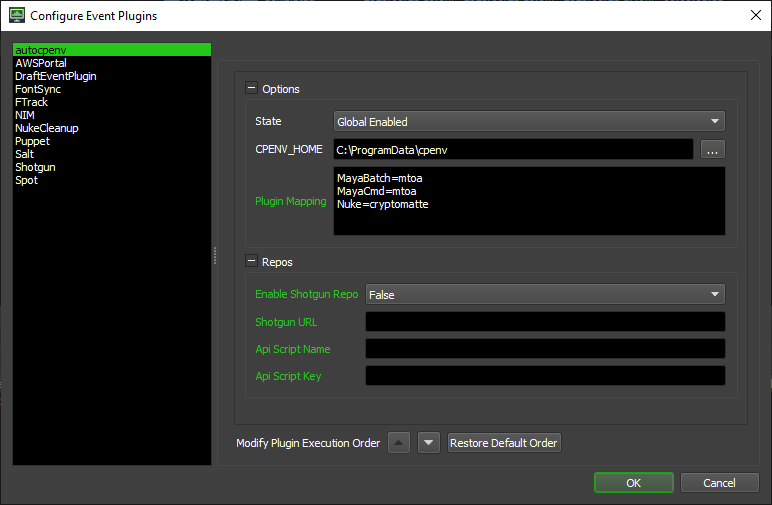
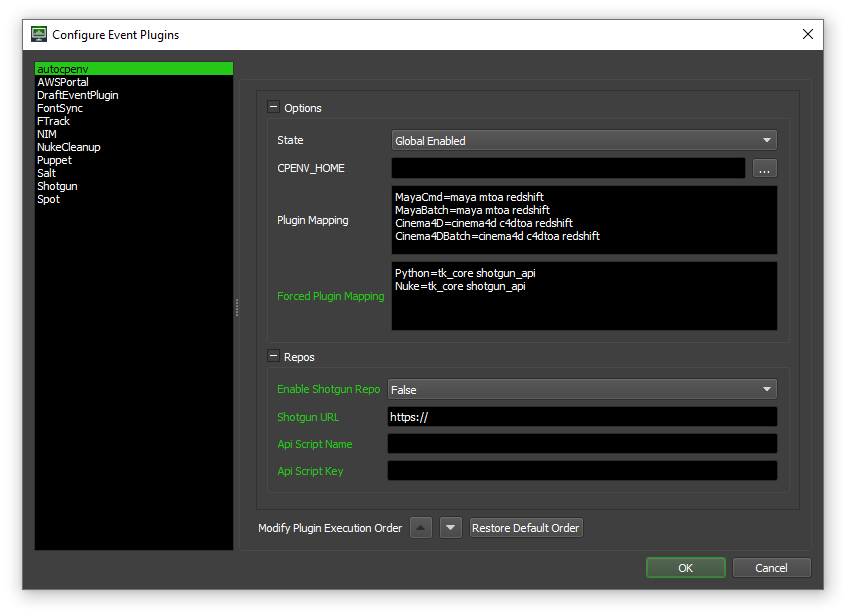
Update README.rst

diff --git a/README.rst b/README.rst
@@ -2,7 +2,7 @@
 autocpenv
 =========
 
-Deadline Event Plugin that automatically activates a cpenv environment when a worker starts rendering a task.
+Deadline Event Plugin that automatically activates cpenv requirements when a worker starts rendering a task. When submitting a job, this event plugin will check the user's CPENV_ACTIVATE_MODULES Environment variable for modules. If CPENV_ACTIVE_MODULES is undefined, the event will fallback to the requirements specified in the Plugin Mapping setting.
 
 
 Installation
@@ -32,9 +32,10 @@ Options
 -------
 - State: How this event plug-in should respond to events. If Global, all jobs and workers will trigger the events for this plugin. If Opt-In, jobs and workers can choose to trigger the events for this plugin. If Disabled, no events are triggered for this plugin.
 - CPENV_HOME: Path to cpenv home. Defaults to a local directory. Can be set to a shared network location. Place a config.yml file within the home directory to configure repositories. See the cpenv documentation for more info.
-- Plugin Mapping: Mapping of deadline plugins to cpenv environments. Each line should start with a deadline plugin and end with a space separate list of cpenv environment paths.
+- Plugin Mapping: Mapping of deadline plugins to cpenv requirements. Each line should start with a deadline plugin and end with a space separate list of cpenv requirements.
  + Each line configures a Deadline Plugin
  + **{Deadline_Plugin}={cpenv_module}**
+- Forced Plugin Mapping: These cpenv requirements are always added to a job's environment. This allows you to ensure that certain requirements are always available for specific deadline plugins. The formatting is the same as Plugin Mapping.
 - Enable Shotgun Repo: `Setup a Shotgun api script <https://support.shotgunsoftware.com/hc/en-us/articles/219031368-Create-and-manage-API-scripts>`_
  + Shotgun URL: Path to Shotgun site (https://my.shotgunstudio.com)
  + Api Script Name
